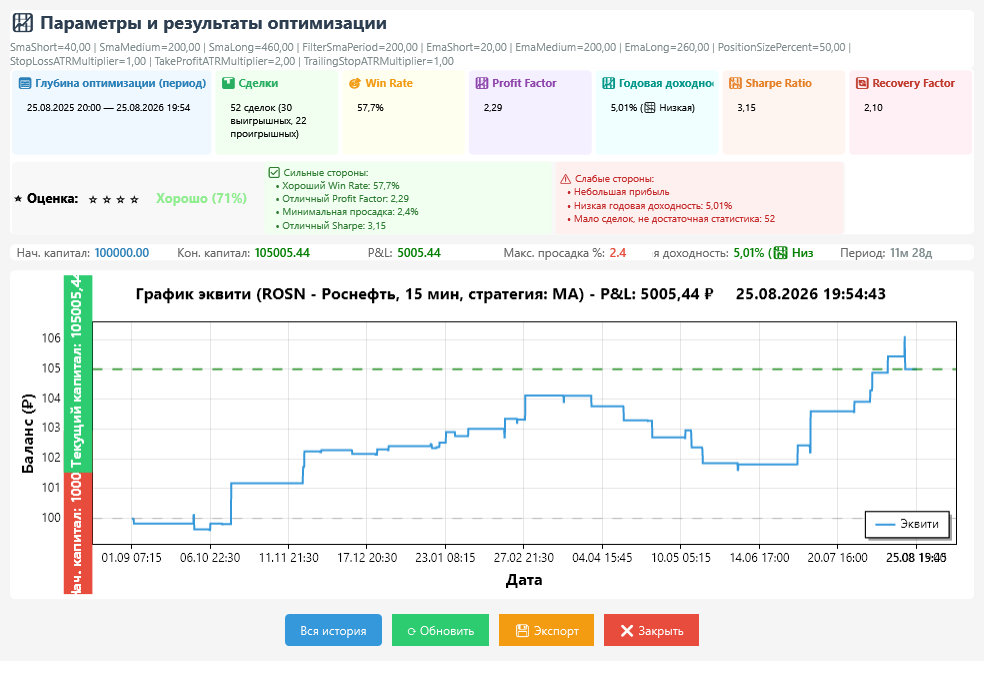
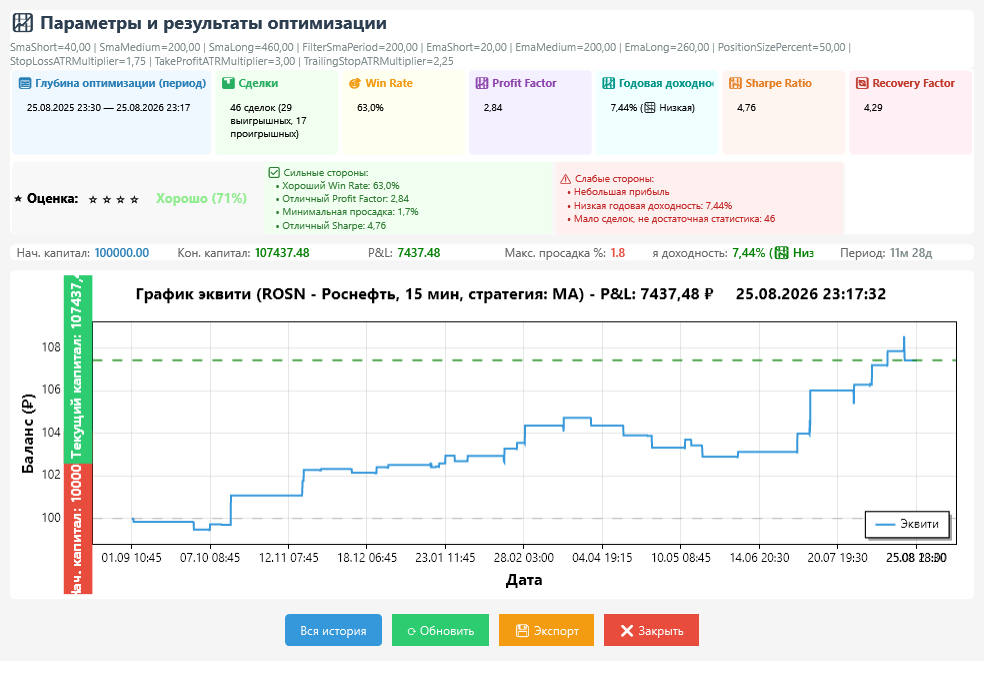
Добавлен название стратегии в эквити оптимизации

diff --git a/Views/OptimizationWindow.xaml b/Views/OptimizationWindow.xaml
@@ -81,6 +81,9 @@
                     <TextBlock Text="|" Foreground="Gray" Margin="5,0,10,0"/>
                     <TextBlock Text="Статус:" Foreground="White" Margin="5,0,5,0"/>
                     <TextBlock Text="{Binding OptimizationStatus}" Foreground="LightGreen" Margin="0,0,10,0"/>
+                    <TextBlock Text="|" Foreground="Gray" Margin="5,0,10,0"/>
+                    <TextBlock Text="Стратегия:" Foreground="White" Margin="5,0,5,0"/>
+                    <TextBlock Text="{Binding StrategyType}" Foreground="LightGreen" Margin="0,0,10,0"/>
                 </StackPanel>
             </Border>
 

diff --git a/ViewModels/OptimizationViewModel.cs b/ViewModels/OptimizationViewModel.cs
@@ -35,7 +35,7 @@ namespace MoneyGenerator_v5.ViewModels
         private CancellationTokenSource _cancellationTokenSource;
         private bool _isOptimizing;
         private readonly object _resultLock = new object();
-        private readonly string _strategyType;
+        //private readonly string _strategyType;
         private readonly Dictionary<string, decimal> _originalParameters;
 
         // ✅ КЭШ ДАННЫХ - загружается один раз
@@ -51,7 +51,8 @@ namespace MoneyGenerator_v5.ViewModels
         #endregion
 
         #region Observable Properties
-
+        [ObservableProperty]
+        private string _strategyType;
         [ObservableProperty]
         private string _instrumentInfo;
 
@@ -168,7 +169,7 @@ namespace MoneyGenerator_v5.ViewModels
 
             //_results[0].StrategyType = _strategyType;
 
-            SelectedResult.StrategyType = _strategyType;
+            //SelectedResult.StrategyType = _strategyType;
 
             // Инициализация периодов
             AvailablePeriods.Add("30 дней");
@@ -1913,7 +1914,15 @@ namespace MoneyGenerator_v5.ViewModels
             OnPropertyChanged(nameof(CanStopOptimizationCommand));
             OnPropertyChanged(nameof(CanApplyParametersCommand));
 
-           
+            if (SelectedResult != null)
+            {
+                SelectedResult.StrategyType = StrategyType;
+            }
+            
+
+            //Debug.WriteLine($"[RefreshCommands] ========== _results[0].StrategyType ==========  {_results[0].StrategyType}");
+
+
 
             Debug.WriteLine("[RefreshCommands] ========== КОНЕЦ ==========");
         }
@@ -3028,7 +3037,7 @@ namespace MoneyGenerator_v5.ViewModels
 
 
             BestResultSummary = $"{_instrumentInfo}  Лучший: P&L={result.NetProfit:F2}, Фактор={result.ProfitFactor:F2}, " +
-                               $"Сделок={result.TotalTrades}, Параметры: {paramSummary}";
+                               $"Сделок={result.TotalTrades} \nПараметры: {paramSummary}";
             Debug.WriteLine($"[UpdateBestResultSummary] {BestResultSummary}");
             Debug.WriteLine("[UpdateBestResultSummary] КОНЕЦ");
         }
